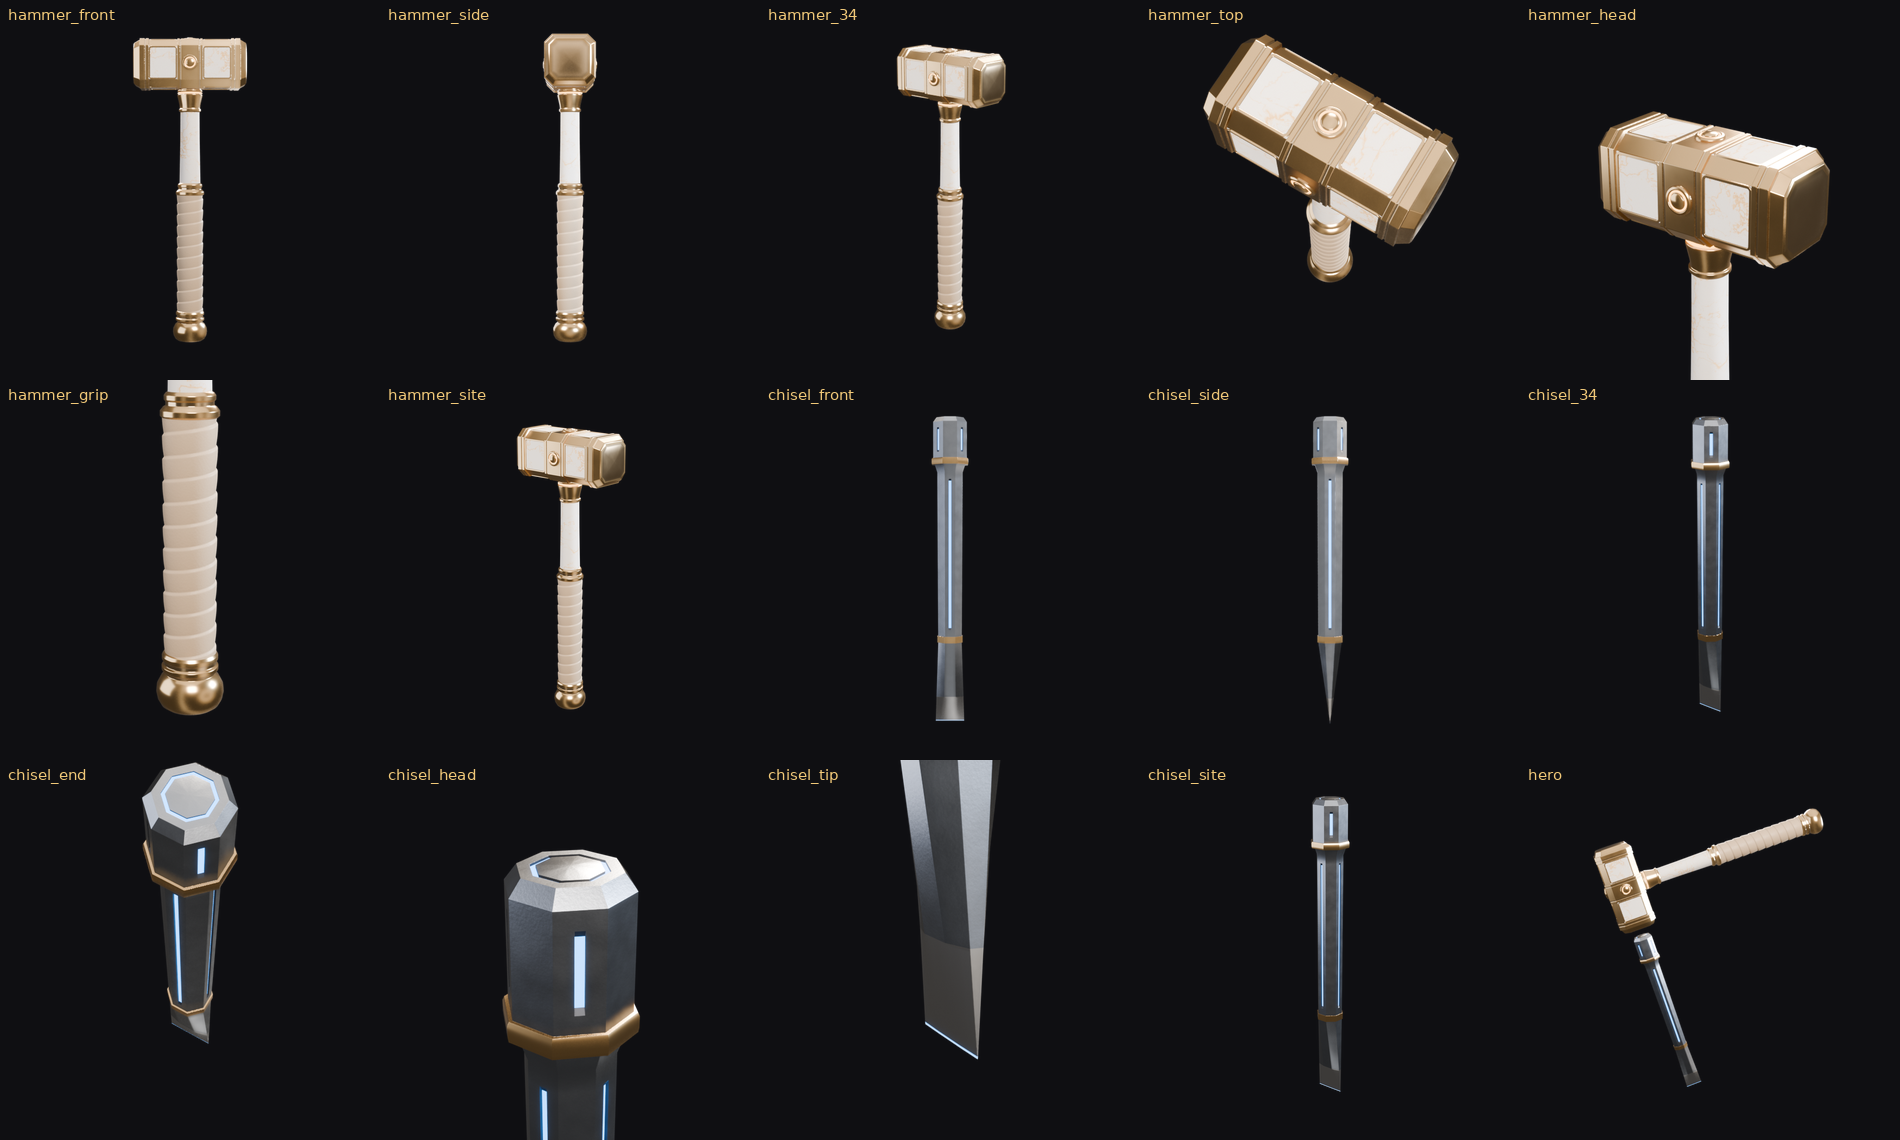
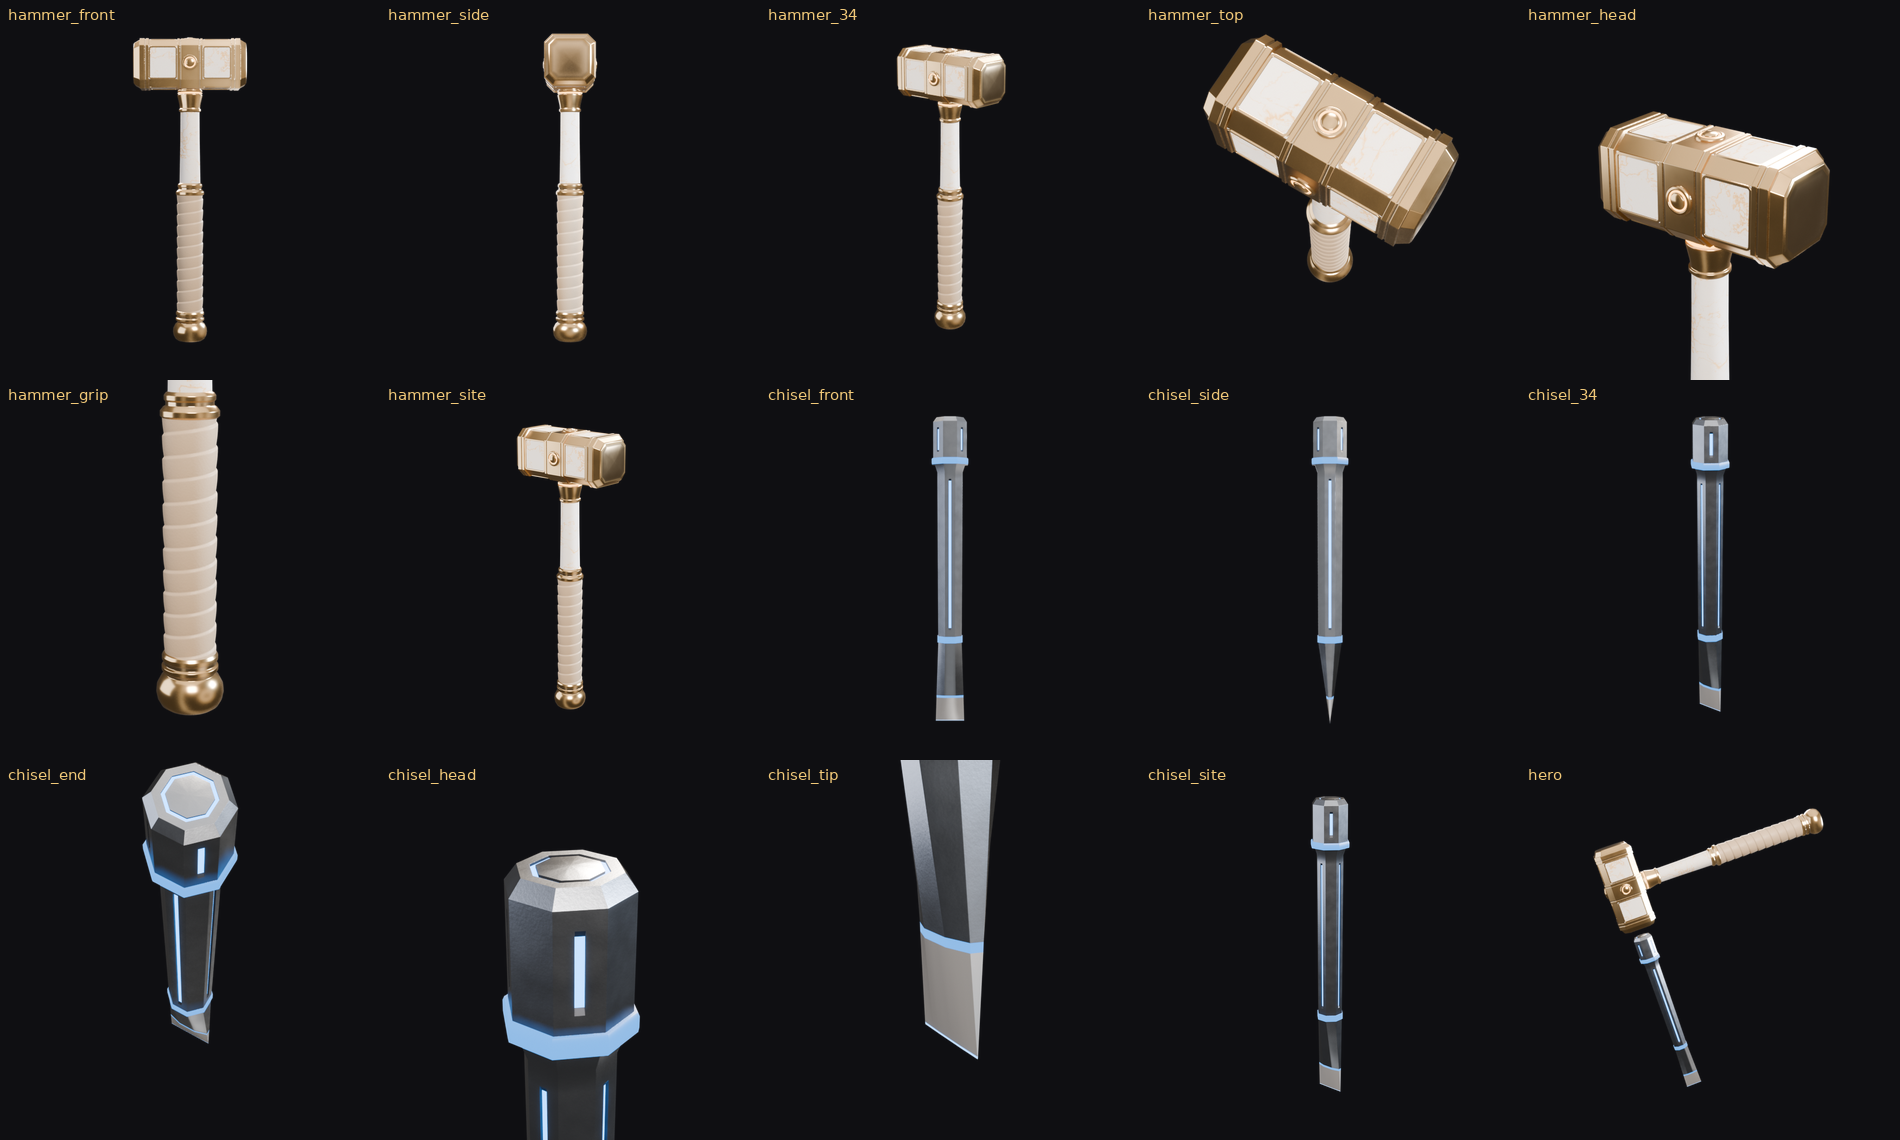
Tools: all-neon chisel, brighter blade, glow layers for the site
Claude-Session: https://claude.ai/code/session_01Roidku2vvtVQoHYrC3o7Sn

diff --git a/3d/scripts/tools_build.py b/3d/scripts/tools_build.py
@@ -55,8 +55,9 @@ M_LEATHER = mat("Tool_Leather", (0.56, 0.40, 0.25), rough=0.58, coat=0.1, bump=0
 M_AMBER = mat("Tool_GlowAmber", (1.0, 0.40, 0.05), rough=0.3, emis=(1.0, 0.40, 0.04), estr=5.0, vp=(1.0, 0.6, 0.2))
 M_GUN = mat("Tool_Gunmetal", (0.36, 0.40, 0.47), metal=1.0, rough=0.26, aniso=0.35, rough_var=0.06, bump=0.04, bump_scale=1500.0)
 M_GUNDARK = mat("Tool_GunmetalDark", (0.035, 0.04, 0.05), metal=0.8, rough=0.45)
-M_STEEL = mat("Tool_Steel", (0.82, 0.84, 0.88), metal=1.0, rough=0.2, aniso=0.5)
+M_STEEL = mat("Tool_Steel", (0.96, 0.97, 1.0), metal=0.8, rough=0.16, coat=0.6, aniso=0.3)
 M_BLUE = mat("Tool_GlowBlue", (0.02, 0.25, 0.9), rough=0.3, emis=(0.01, 0.30, 1.0), estr=5.0, vp=(0.25, 0.66, 1.0))
+M_BLUE_RING = mat("Tool_GlowBlueRing", (0.0, 0.0, 0.0), rough=0.35, emis=(0.01, 0.30, 1.0), estr=2.2, vp=(0.25, 0.66, 1.0))  # same hue, lower strength: wide rings stay saturated #3fa9ff
 
 # marble from the statue file (copied into this file; source untouched)
 with D.libraries.load(S + "/assets/asset_statue.blend", link=False) as (src, dst):
@@ -287,8 +288,8 @@ G, GUN, GD, ST, BL = 0, 1, 2, 3, 4
 spec = [
     (0.00, 0.93, 1.22, 0.012, 0, 0, BL),
     (0.05, 0.93, 1.22, 0.024, 0, 0, ST),
-    (1.90, 0.93, 1.16, 0.32, 0, 0, ST),
-    (1.96, 0.93, 1.16, 0.33, 0, 0, GUN),
+    (1.88, 0.93, 1.16, 0.32, 0, 0, G),
+    (2.06, 0.93, 1.16, 0.335, 0, 0, GUN),
     (6.30, 0.93, 1.0, 1.0, 0, 0, GUN),
     (6.30, 1.00, 1.0, 1.0, 0, 0, G),
     (6.80, 1.00, 1.0, 1.0, 0, 0, G),
@@ -317,6 +318,8 @@ spec = [
     (24.02, 0.30, 1.0, 1.0, 0, 0, GUN),
     (24.03, 0.02, 1.0, 1.0, 0, 0, GUN),
 ]
+BR = 5
+spec = [r[:6] + (BR if r[6] == G else r[6],) for r in spec]   # chisel = pure AI: former gold rings become blue neon
 rings = [oct_ring(z, R, sx, sy, de, do) for z, R, sx, sy, de, do, _ in spec]
 def cmat(i, j):
     m = spec[i][6]; q = j % 5; k = j // 5
@@ -326,7 +329,7 @@ def cmat(i, j):
         if (dk[0] > 0 or dk[1] > 0) and q == 2: return GD
         if (dk[0] > 0 or dk[1] > 0): return GD
     return m
-mb = MB("Chisel_Body", [M_GOLD, M_GUN, M_GUNDARK, M_STEEL, M_BLUE])
+mb = MB("Chisel_Body", [M_GOLD, M_GUN, M_GUNDARK, M_STEEL, M_BLUE, M_BLUE_RING])
 mb.loft(rings, cmat, cap0=BL, cap1=GUN)
 mb.build(CHI, sharp=28, bevel=0.03, seg=3, angle=25)
 

diff --git a/3d/scripts/tools_glow_post.py b/3d/scripts/tools_glow_post.py
@@ -1,0 +1,16 @@
+# glow RGB-on-black -> RGBA (alpha = intensity, colour = unpremultiplied glow colour); preview site+glow (screen) on #0f0f12
+import numpy as np
+from PIL import Image
+O = "/tmp/claude-0/-home-user-kardonov-site/cb30cd45-1b88-5b9b-b3ff-480343f6cfce/scratchpad/out/tools"
+for t in ("hammer", "chisel"):
+    g = np.asarray(Image.open(f"{O}/glowraw_{t}_site.png").convert("RGB")).astype(np.float32) / 255
+    a = g.max(axis=2, keepdims=True)
+    col = np.where(a > 1e-4, g / np.maximum(a, 1e-4), 0)
+    Image.fromarray((np.concatenate([col, a], 2) * 255 + 0.5).astype(np.uint8), "RGBA").save(f"{O}/{t}_glow.png")
+    site = Image.open(f"{O}/{t}_site.png").convert("RGBA")
+    bg = Image.new("RGBA", site.size, (15, 15, 18, 255)); bg.alpha_composite(site)
+    base = np.asarray(bg.convert("RGB")).astype(np.float32) / 255
+    glow = col * a                                   # what CSS screen-blends (premultiplied colour)
+    out = 1 - (1 - base) * (1 - glow)
+    Image.fromarray((out * 255 + 0.5).astype(np.uint8)).save(f"{O}/{t}_site_with_glow_on_dark.jpg", quality=92)
+    print(t, "max alpha", float(a.max()))

diff --git a/3d/scripts/tools_render.py b/3d/scripts/tools_render.py
@@ -26,6 +26,15 @@ if GLARE:
     nt.links.new(rl.outputs['Image'], g.inputs['Image']); nt.links.new(g.outputs['Image'], comp.inputs['Image'])
 
 HAM, CHI, CAM = D.objects["Hammer"], D.objects["Chisel"], sc.camera
+GLOW = bool(os.environ.get("GLOW"))
+if GLOW:   # glow layer: only emissive materials, everything else holdout; RGB on black + strong fog glow
+    for m in D.materials:
+        if m.name in ("Tool_GlowAmber", "Tool_GlowBlue", "Tool_GlowBlueRing") or not m.use_nodes: continue
+        nt = m.node_tree; out = [n for n in nt.nodes if n.type == 'OUTPUT_MATERIAL'][0]
+        h = nt.nodes.new("ShaderNodeHoldout"); nt.links.new(h.outputs[0], out.inputs["Surface"])
+    sc.render.image_settings.color_mode = 'RGB'
+    g = [n for n in sc.node_tree.nodes if n.type == 'GLARE'][0]
+    g.threshold = 0.3; g.size = 9; g.mix = 0.2
 CENTER = V((0, 0, 0.16))
 
 def kids(e): return [o for o in e.children_recursive if o.type == 'MESH']

diff --git a/3d/README.md b/3d/README.md
@@ -34,7 +34,9 @@ WebP 1080×1440, прозрачный фон, одна неподвижная к
 
 `hammer_site`, `chisel_site` — WebP 1600×1600, прозрачный фон, ракурс 3/4.
 Молот = человек (мрамор, золото, кремовая кожа, янтарное свечение), долото = ИИ (гунметалл, голубое свечение, золотые акценты).
-Сборка: `scripts/tools_build.py`, рендеры: `scripts/tools_render.py`.
+`hammer_glow`, `chisel_glow` — слои свечения (тот же кадр), класть поверх с CSS `mix-blend-mode: screen`.
+Долото без золота: светлый титан, стальное лезвие, голубой неон.
+Сборка: `scripts/tools_build.py`, рендеры: `scripts/tools_render.py` (`GLOW=1` — слой свечения), `scripts/tools_glow_post.py`.
 
 ## previews
 
